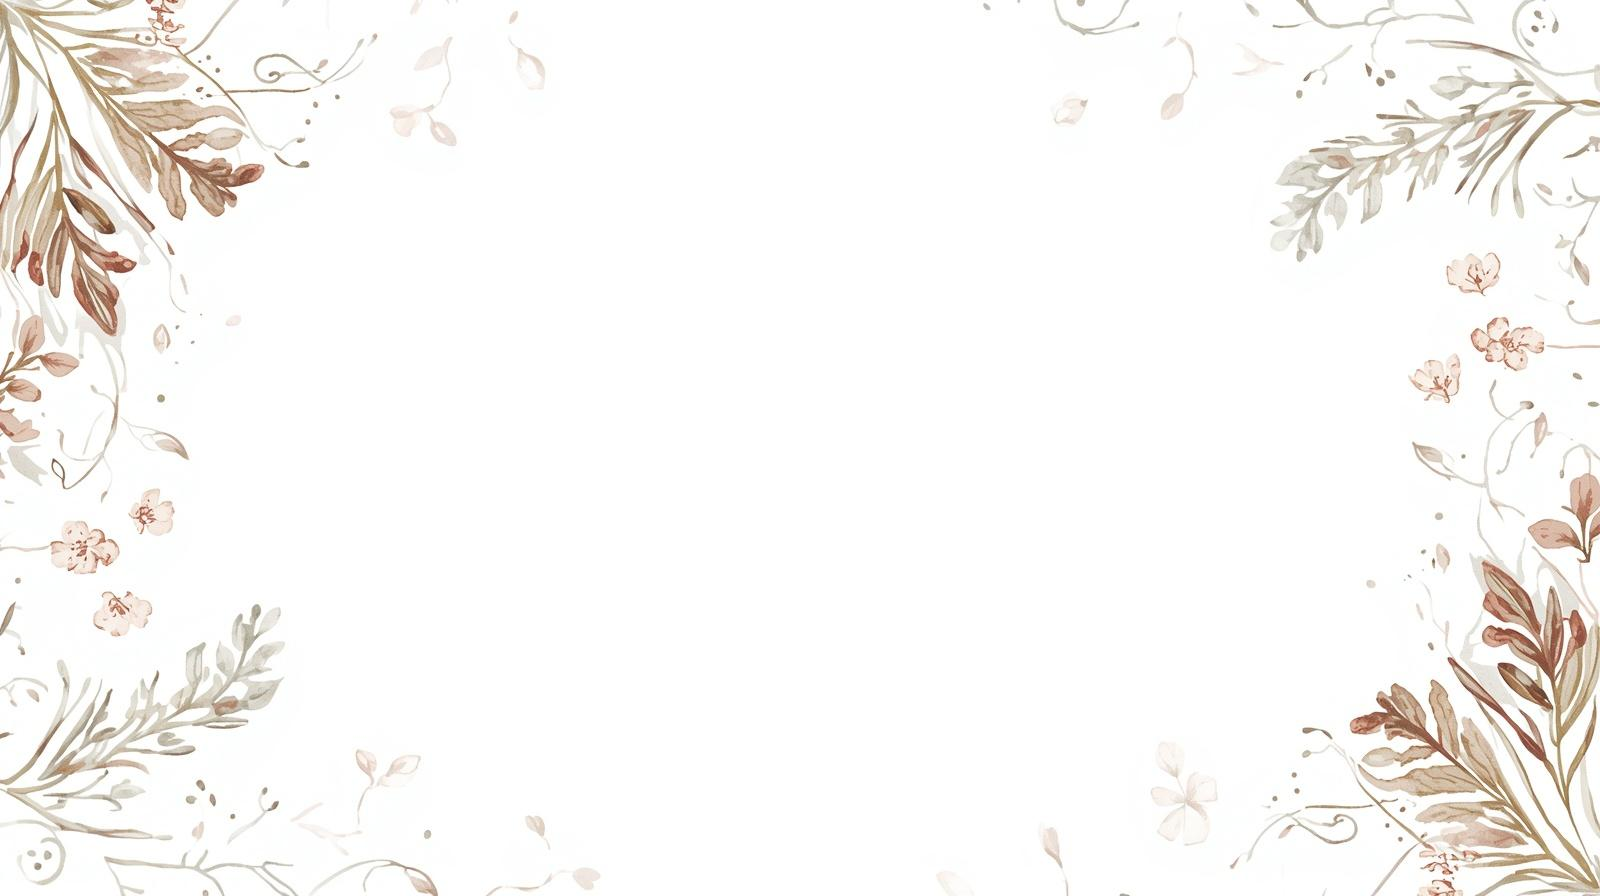
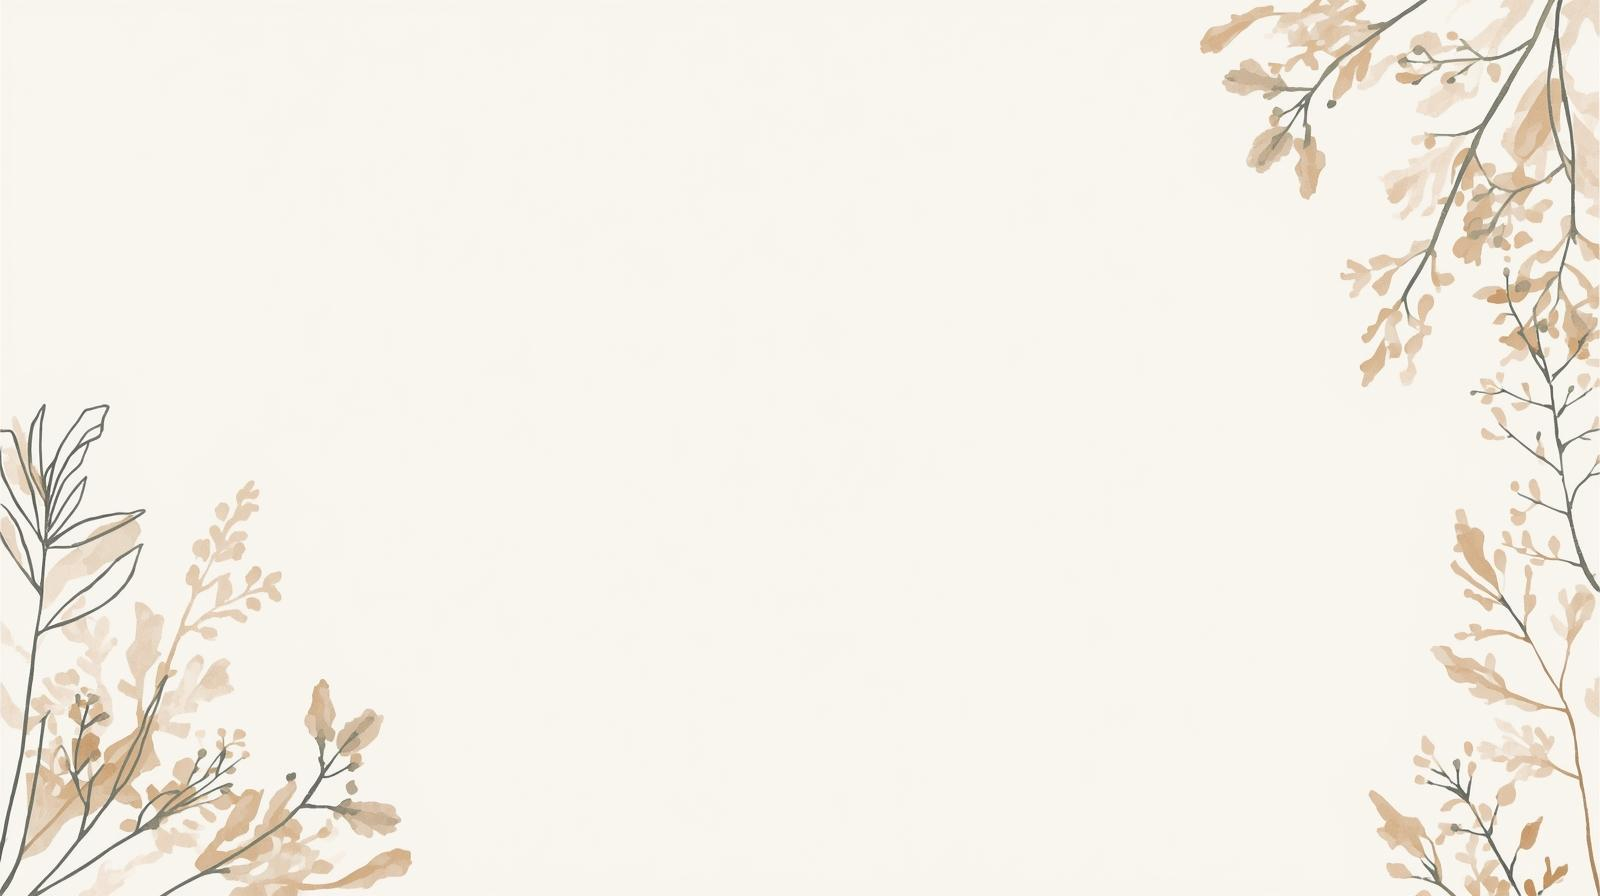
Chore: Updated design

diff --git a/src/components/ui/firstPage.tsx b/src/components/ui/firstPage.tsx
@@ -4,49 +4,51 @@ export const FirstPage = () => {
   return (
     <section
       id="home"
-      className="m-auto flex h-max min-h-[calc(100vh-56px)] w-full max-w-5xl items-center justify-center bg-transparent lg:min-h-[calc(100dvh-64px)] lg:items-center"
+      className="m-auto flex h-max min-h-[calc(100vh-56px)] w-full max-w-5xl items-center justify-center bg-transparent bg-cover bg-center bg-no-repeat lg:min-h-[calc(100dvh-64px)] lg:items-center"
     >
       <article className="flex h-max min-h-full w-full p-1 px-4 md:p-10 lg:items-center xl:p-0">
-        <div className="flex h-max min-h-full w-full flex-col justify-evenly gap-5 min-[390px]:gap-7 sm:gap-10 lg:flex-row lg:justify-center lg:gap-10">
-          <div className="2xl:16 flex h-max min-h-full w-full flex-col justify-evenly gap-2 min-[390px]:gap-6 sm:gap-10 lg:justify-center lg:gap-10">
-            <h1 className="font-merriweather text-primary text-xl font-bold min-[390px]:text-xl sm:text-4xl 2xl:text-5xl">
-              Controle o Diabetes gestacional, Pré eclampsia e Excesso de peso,
-              dessa forma garanta uma gravidez segura agora
-            </h1>
-            <div className="font-merriweather flex flex-col gap-1 min-[450px]:gap-6 md:w-1/2 md:gap-8 lg:w-full lg:gap-10">
-              <p className="text-sm lg:text-lg">
-                Acompanhamento nutricional especializado para diminuir riscos,
-                controlar o peso e garantir a saúde do seu bebê sem dietas
-                restritivas.
+        <div className="flex h-max flex-col gap-2 min-[600px]:gap-4 lg:gap-10">
+          <h1 className="font-merriweather text-center text-2xl font-bold min-[400px]:text-3xl sm:text-5xl 2xl:text-6xl">
+            Seu bebê pode ser afetado pela sua alimentação e você nem sabe
+            disso.
+          </h1>
+          <div className="flex h-max min-h-full w-full flex-col justify-evenly gap-5 min-[390px]:gap-7 sm:gap-10 lg:flex-row-reverse lg:items-end lg:justify-center lg:gap-10">
+            <div className="flex w-full flex-col justify-evenly gap-2 min-[390px]:gap-6 sm:gap-10 lg:w-3/5 lg:flex-row lg:flex-wrap lg:items-end lg:justify-start lg:gap-10">
+              <p className="font-merriweather bg-background m-auto p-2 text-center text-sm md:w-1/2 lg:w-full lg:text-3xl">
+                Descubra como evitar danos silenciosos na gestação com um
+                acompanhamento nutricional estratégico.
               </p>
+              <a
+                className="hidden w-full lg:flex"
+                href="https://wa.link/6mo3a2"
+              >
+                <ButtonCTA
+                  ariaLabel="Link para conversar com o profissional"
+                  text={"AGENDAR CONSULTA"}
+                />
+              </a>
             </div>
-            <a className="hidden lg:flex" href="https://wa.link/6mo3a2">
-              <ButtonCTA
-                ariaLabel="Link para conversar com o profissional"
-                text={"AGENDAR CONSULTA"}
+            <div className="flex w-full flex-col items-center gap-5 max-[640px]:m-auto sm:gap-10 lg:flex-row lg:items-center">
+              <img
+                className="w-full max-w-60 flex-4 rounded-lg shadow-lg min-[390px]:max-w-xl lg:max-w-4xl"
+                height={400}
+                width={600}
+                fetchPriority="high"
+                loading="eager"
+                decoding="sync"
+                alt="Imagem da Karen Martins - Está em pé, ao lado de uma mesa e sorrindo de forma amigável"
+                src="/newApresentation.webp"
               />
-            </a>
-          </div>
-          <div className="md: flex w-full flex-col items-center gap-5 max-[640px]:m-auto sm:gap-10 md:items-start lg:flex-row lg:items-center">
-            <img
-              className="w-full max-w-60 flex-4 rounded-lg shadow-lg min-[390px]:max-w-xl lg:max-w-2xl"
-              height={400}
-              width={600}
-              fetchPriority="high"
-              loading="eager"
-              decoding="sync"
-              alt="Imagem da Karen Martins - Está em pé, ao lado de uma mesa e sorrindo de forma amigável"
-              src="/newApresentation.webp"
-            />
-            <a
-              className="flex w-4/5 sm:w-1/2 lg:hidden"
-              href="https://wa.link/6mo3a2"
-            >
-              <ButtonCTA
-                ariaLabel="Link para conversar com o profissional"
-                text={"AGENDAR CONSULTA"}
-              />
-            </a>
+              <a
+                className="flex w-4/5 sm:w-1/2 lg:hidden"
+                href="https://wa.link/6mo3a2"
+              >
+                <ButtonCTA
+                  ariaLabel="Link para conversar com o profissional"
+                  text={"AGENDAR CONSULTA"}
+                />
+              </a>
+            </div>
           </div>
         </div>
       </article>

diff --git a/src/App.tsx b/src/App.tsx
@@ -24,11 +24,7 @@ function App() {
       <Header />
 
       <main className="font-openSans relative flex w-full flex-col gap-10 max-[600px]:text-center">
-        {/* <img
-          src="/backgroundInitial.jpg"
-          className="absolute top-0 left-0 z-10 w-full object-fill"
-          alt="ex"
-        /> */}
+        {/* <div className="absolute top-0 left-0 -z-10 h-screen min-h-screen w-full bg-[url(public/backgroundInitial.jpg)] bg-cover bg-center bg-no-repeat object-fill"></div> */}
         <FirstPage />
         <SecondPage />
         <ThirdPage />

diff --git a/src/components/ui/header.tsx b/src/components/ui/header.tsx
@@ -86,7 +86,7 @@ export const Header = () => {
           </Sheet>
         </nav>
         <nav className="hidden justify-end lg:flex">
-          <ul className="text-foreground flex items-center gap-5 pr-5 text-lg">
+          <ul className="text-foreground flex items-center gap-5 pr-5 text-xl">
             <li className="hover:border-b-foreground drop-shadow-red border-b border-b-transparent p-0.5 transition-all duration-500 ease-in-out">
               <a aria-label="Direcionar para a seção Inicial" href="#home">
                 Home
